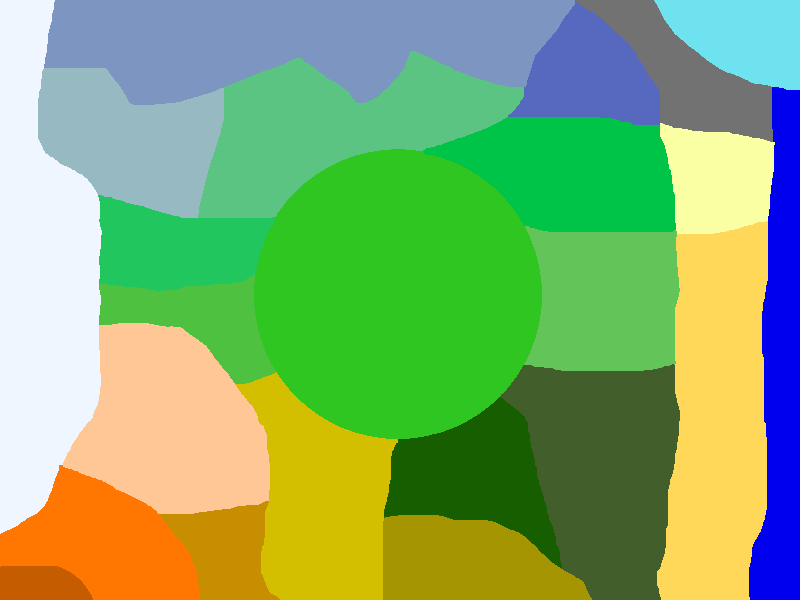
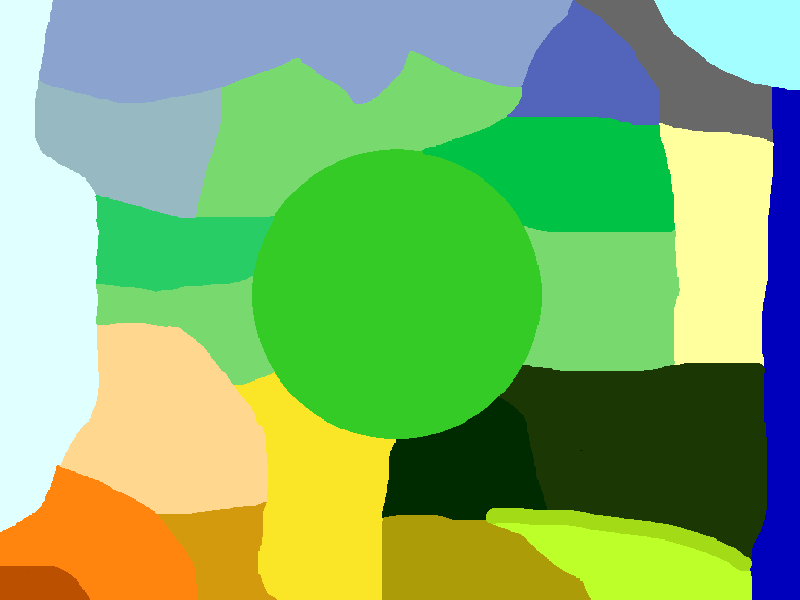
port to new image

diff --git a/src/main/java/supercoder79/mapfromimage/gen/FromImageBiomeSource.java b/src/main/java/supercoder79/mapfromimage/gen/FromImageBiomeSource.java
@@ -42,7 +42,7 @@ public class FromImageBiomeSource extends BiomeSource {
 
 		BufferedImage temp;
 		try {
-			temp = ImageIO.read(new File("image.bmp"));
+			temp = ImageIO.read(new File("image.png"));
 		} catch (IOException e) {
 			temp = null;
 			e.printStackTrace();
@@ -74,10 +74,10 @@ public class FromImageBiomeSource extends BiomeSource {
 			int color = image.getRGB(x + sizeX, z + sizeZ);
 
 			switch (color) {
-				case 0xFF2FC621: return PlainsGen.INSTANCE;
-				case 0xFF21C65E: return TaigaGen.INSTANCE;
-				case 0xFFD3BE00: return SavannaGen.INSTANCE;
-				case 0xFF425E2B: return SwampGen.INSTANCE;
+				case 0xFF34CB26: return PlainsGen.INSTANCE;
+				case 0xFF28CD65: return TaigaGen.INSTANCE;
+				case 0xFFFAE527: return SavannaGen.INSTANCE;
+				case 0xFF1B3704: return SwampGen.INSTANCE;
 			}
 		}
 
